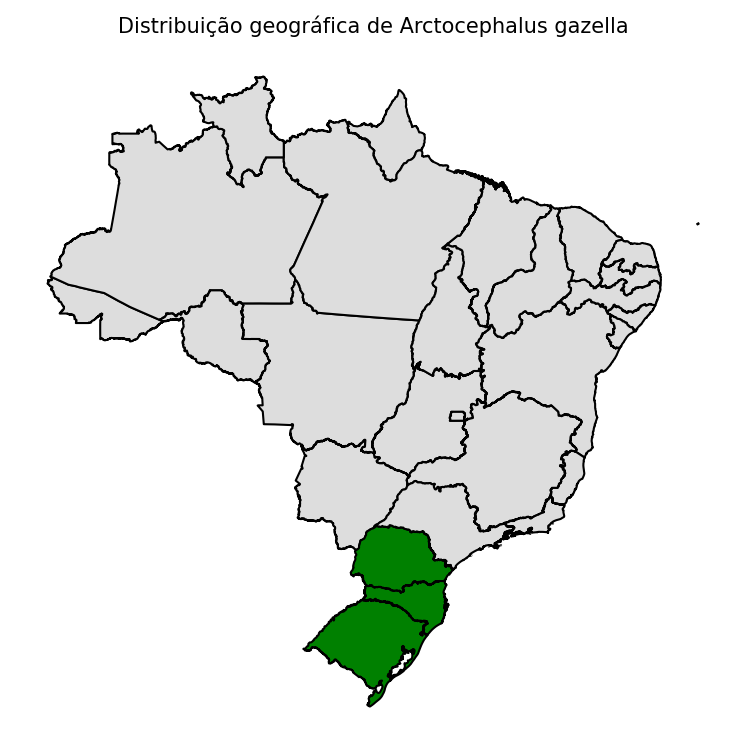
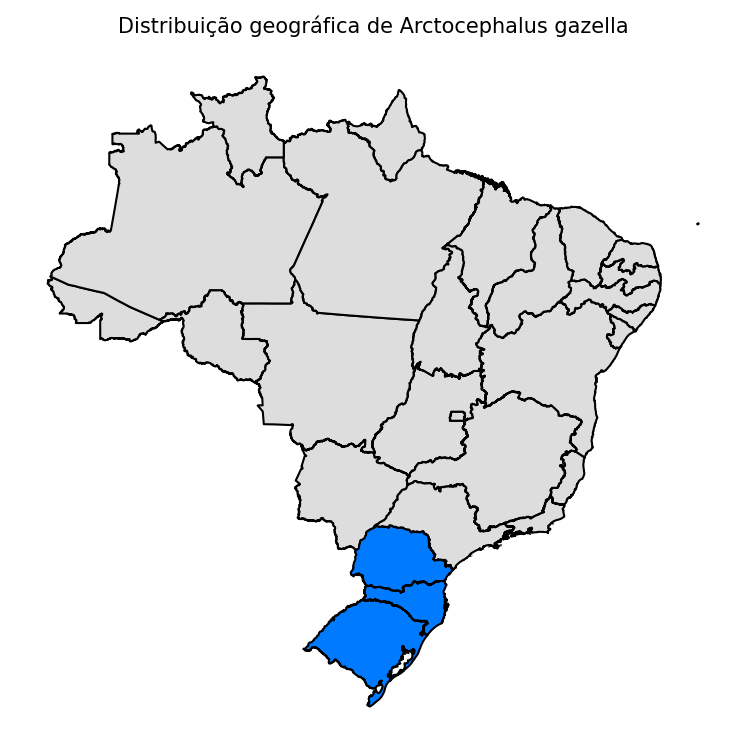
style: estilizamos o mapa aaaaaaaaaaaaa

Changed region(s): [[0.4008, 0.7025, 0.6166, 0.9469]]

diff --git a/core/views.py b/core/views.py
@@ -18,17 +18,33 @@ from django.db.models import Q
 from .forms import CadastroUsuarioForm, CadastroAnimalForm, EditarPerfilForm
 from .models import Animal
 
-
-# Mapeamento de Regiões do Brasil para Nomes de Estados (usado em gerar_mapa_animal)
-# Se o campo 'regiao' do animal contiver uma chave (ex: 'SUL'), seus estados serão pintados.
-MAPA_REGIOES_BRASIL = {
-    "SUL": ["PARANA", "SANTA CATARINA", "RIO GRANDE DO SUL"],
-    "SUDESTE": ["MINAS GERAIS", "SAO PAULO", "RIO DE JANEIRO", "ESPIRITO SANTO"],
-    "NORDESTE": ["MARANHAO", "PIAUI", "CEARA", "RIO GRANDE DO NORTE", "PARAIBA", "PERNAMBUCO", "ALAGOAS", "SERGIPE", "BAHIA"],
-    "NORTE": ["RONDONIA", "ACRE", "AMAZONAS", "RORAIMA", "PARA", "AMAPA", "TOCANTINS"],
-    "CENTRO-OESTE": ["MATO GROSSO", "MATO GROSSO DO SUL", "GOIAS", "DISTRITO FEDERAL"],
+MAPA_REGIOES_BRASIL_COMPLETO = {
+    # Chave: Nome da Região | Estados | Cor (em formato hexadecimal)
+    "SUL": {
+        "estados": ["PARANA", "SANTA CATARINA", "RIO GRANDE DO SUL"],
+        "cor": "#007bff"  # Azul
+    },
+    "SUDESTE": {
+        "estados": ["MINAS GERAIS", "SAO PAULO", "RIO DE JANEIRO", "ESPIRITO SANTO"],
+        "cor": "#ffc107"  # Amarelo/Ouro
+    },
+    "NORDESTE": {
+        "estados": ["MARANHAO", "PIAUI", "CEARA", "RIO GRANDE DO NORTE", "PARAIBA", "PERNAMBUCO", "ALAGOAS", "SERGIPE", "BAHIA"],
+        "cor": "#ff5722"  # Laranja/Vermelho (para contraste com o Norte)
+    },
+    "NORTE": {
+        "estados": ["RONDONIA", "ACRE", "AMAZONAS", "RORAIMA", "PARA", "AMAPA", "TOCANTINS"],
+        "cor": "#28a745"  # Verde
+    },
+    "CENTRO-OESTE": {
+        "estados": ["MATO GROSSO", "MATO GROSSO DO SUL", "GOIAS", "DISTRITO FEDERAL"],
+        "cor": "#6f42c1"  # Roxo
+    },
 }
-
+MAPA_ESTADO_PARA_COR = {}
+for regiao, dados in MAPA_REGIOES_BRASIL_COMPLETO.items():
+    for estado in dados["estados"]:
+        MAPA_ESTADO_PARA_COR[estado] = dados["cor"]
 
 # ------------------ PÁGINAS BÁSICAS ------------------
 
@@ -191,6 +207,64 @@ def buscar_imagem_animal(nome):
 # ------------------ MAPA ------------------
 
 def gerar_mapa_animal(regioes, nome_cientifico):
+    """Gera mapa destacando estados onde o animal ocorre com cores por macrorregião."""
+    try:
+        pasta = Path("media/mapas")
+        pasta.mkdir(parents=True, exist_ok=True)
+
+        # Shapefile do Brasil (por estado)
+        url_geojson = "https://raw.githubusercontent.com/codeforamerica/click_that_hood/master/public/data/brazil-states.geojson"
+        brasil = gpd.read_file(url_geojson)
+
+        # Corrige nomes e acentuação
+        brasil["name_norm"] = brasil["name"].apply(lambda x: unidecode(x).upper())
+
+        # 1. Normaliza e processa o campo 'regioes'
+        regioes_estados_a_pintar = set() # Usamos um set para evitar duplicatas e otimizar busca
+        
+        if isinstance(regioes, str):
+            # Divide por VÍRGULA ou BARRA VERTICAL e limpa a string
+            partes_originais = re.split(r'[,|]', regioes)
+            partes_limpas = [unidecode(r.strip().upper()) for r in partes_originais if r.strip()]
+            
+            # 2. Mapeia as partes para a lista final de estados
+            for parte in partes_limpas:
+                # Se for uma das macrorregiões (ex: "SUL"), adiciona todos os seus estados ao set
+                if parte in MAPA_REGIOES_BRASIL_COMPLETO:
+                    regioes_estados_a_pintar.update(MAPA_REGIOES_BRASIL_COMPLETO[parte]["estados"])
+                # Se não for uma região, assume que é um nome de estado e o adiciona
+                else:
+                    regioes_estados_a_pintar.add(parte)
+
+
+        # 3. Pinta o mapa usando o mapeamento de Estado -> Cor
+        def get_estado_color(uf):
+            """Retorna a cor se o estado for de ocorrência, senão retorna cinza."""
+            if uf in regioes_estados_a_pintar:
+                # Se o estado está na lista de ocorrência, pegamos a cor definida no MAPA_ESTADO_PARA_COR
+                return MAPA_ESTADO_PARA_COR.get(uf, "#00796b") # Cor padrão caso falhe (verde padrão)
+            return "#DDDDDD" # Cinza para estados sem ocorrência
+
+        brasil["color"] = brasil["name_norm"].apply(get_estado_color)
+
+
+        fig, ax = plt.subplots(figsize=(8, 6))
+        brasil.plot(ax=ax, color=brasil["color"], edgecolor="black")
+        ax.set_title(f"Distribuição geográfica de {nome_cientifico}", fontsize=10)
+        ax.axis("off")
+
+        # Caminho do mapa
+        mapa_path = pasta / f"mapa_{nome_cientifico.replace(' ', '_')}.png"
+        plt.savefig(mapa_path, bbox_inches="tight", dpi=150)
+        plt.close(fig)
+        print(f"[OK MAPA] Mapa salvo em {mapa_path}")
+
+        # Retorna o caminho relativo para o template
+        return f"mapas/{mapa_path.name}"
+
+    except Exception as e:
+        print(f"[ERRO MAPA] Falha ao gerar mapa de {nome_cientifico}: {e}")
+        return None
     """Gera mapa destacando estados onde o animal ocorre.
        Aceita regiões (ex: 'SUL') ou estados (ex: 'PARANA, SAO PAULO')."""
     try:
